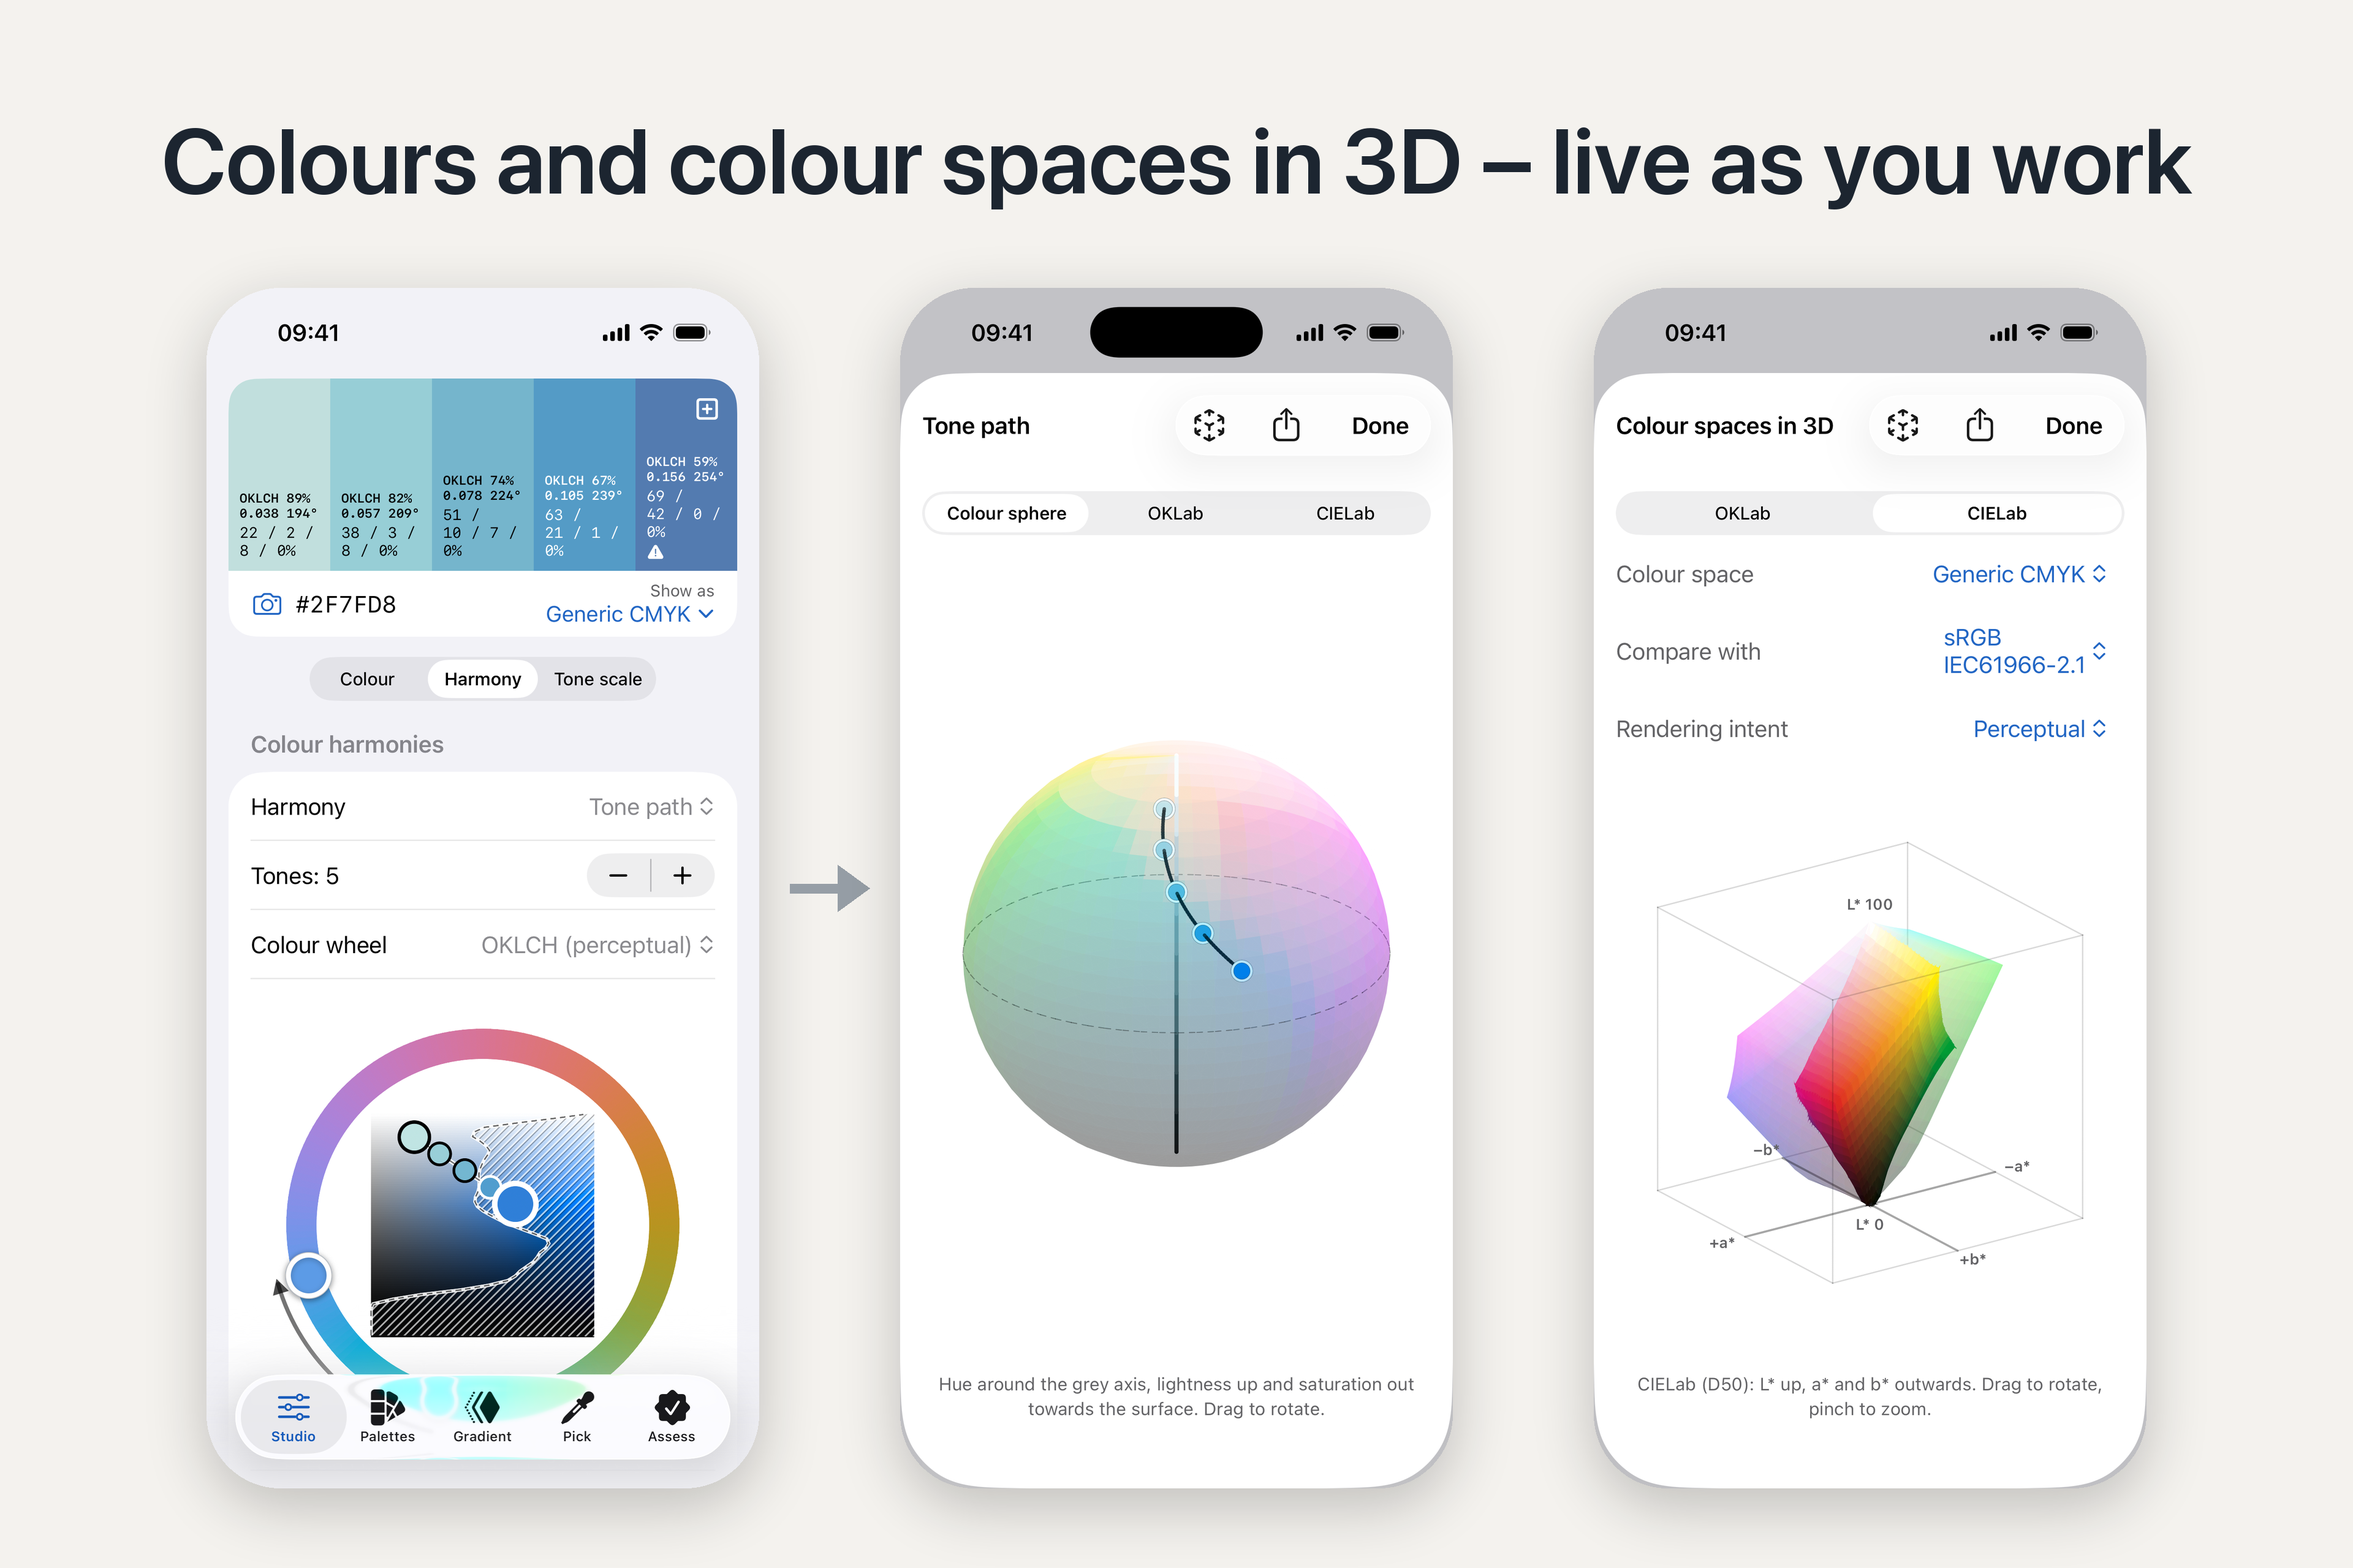
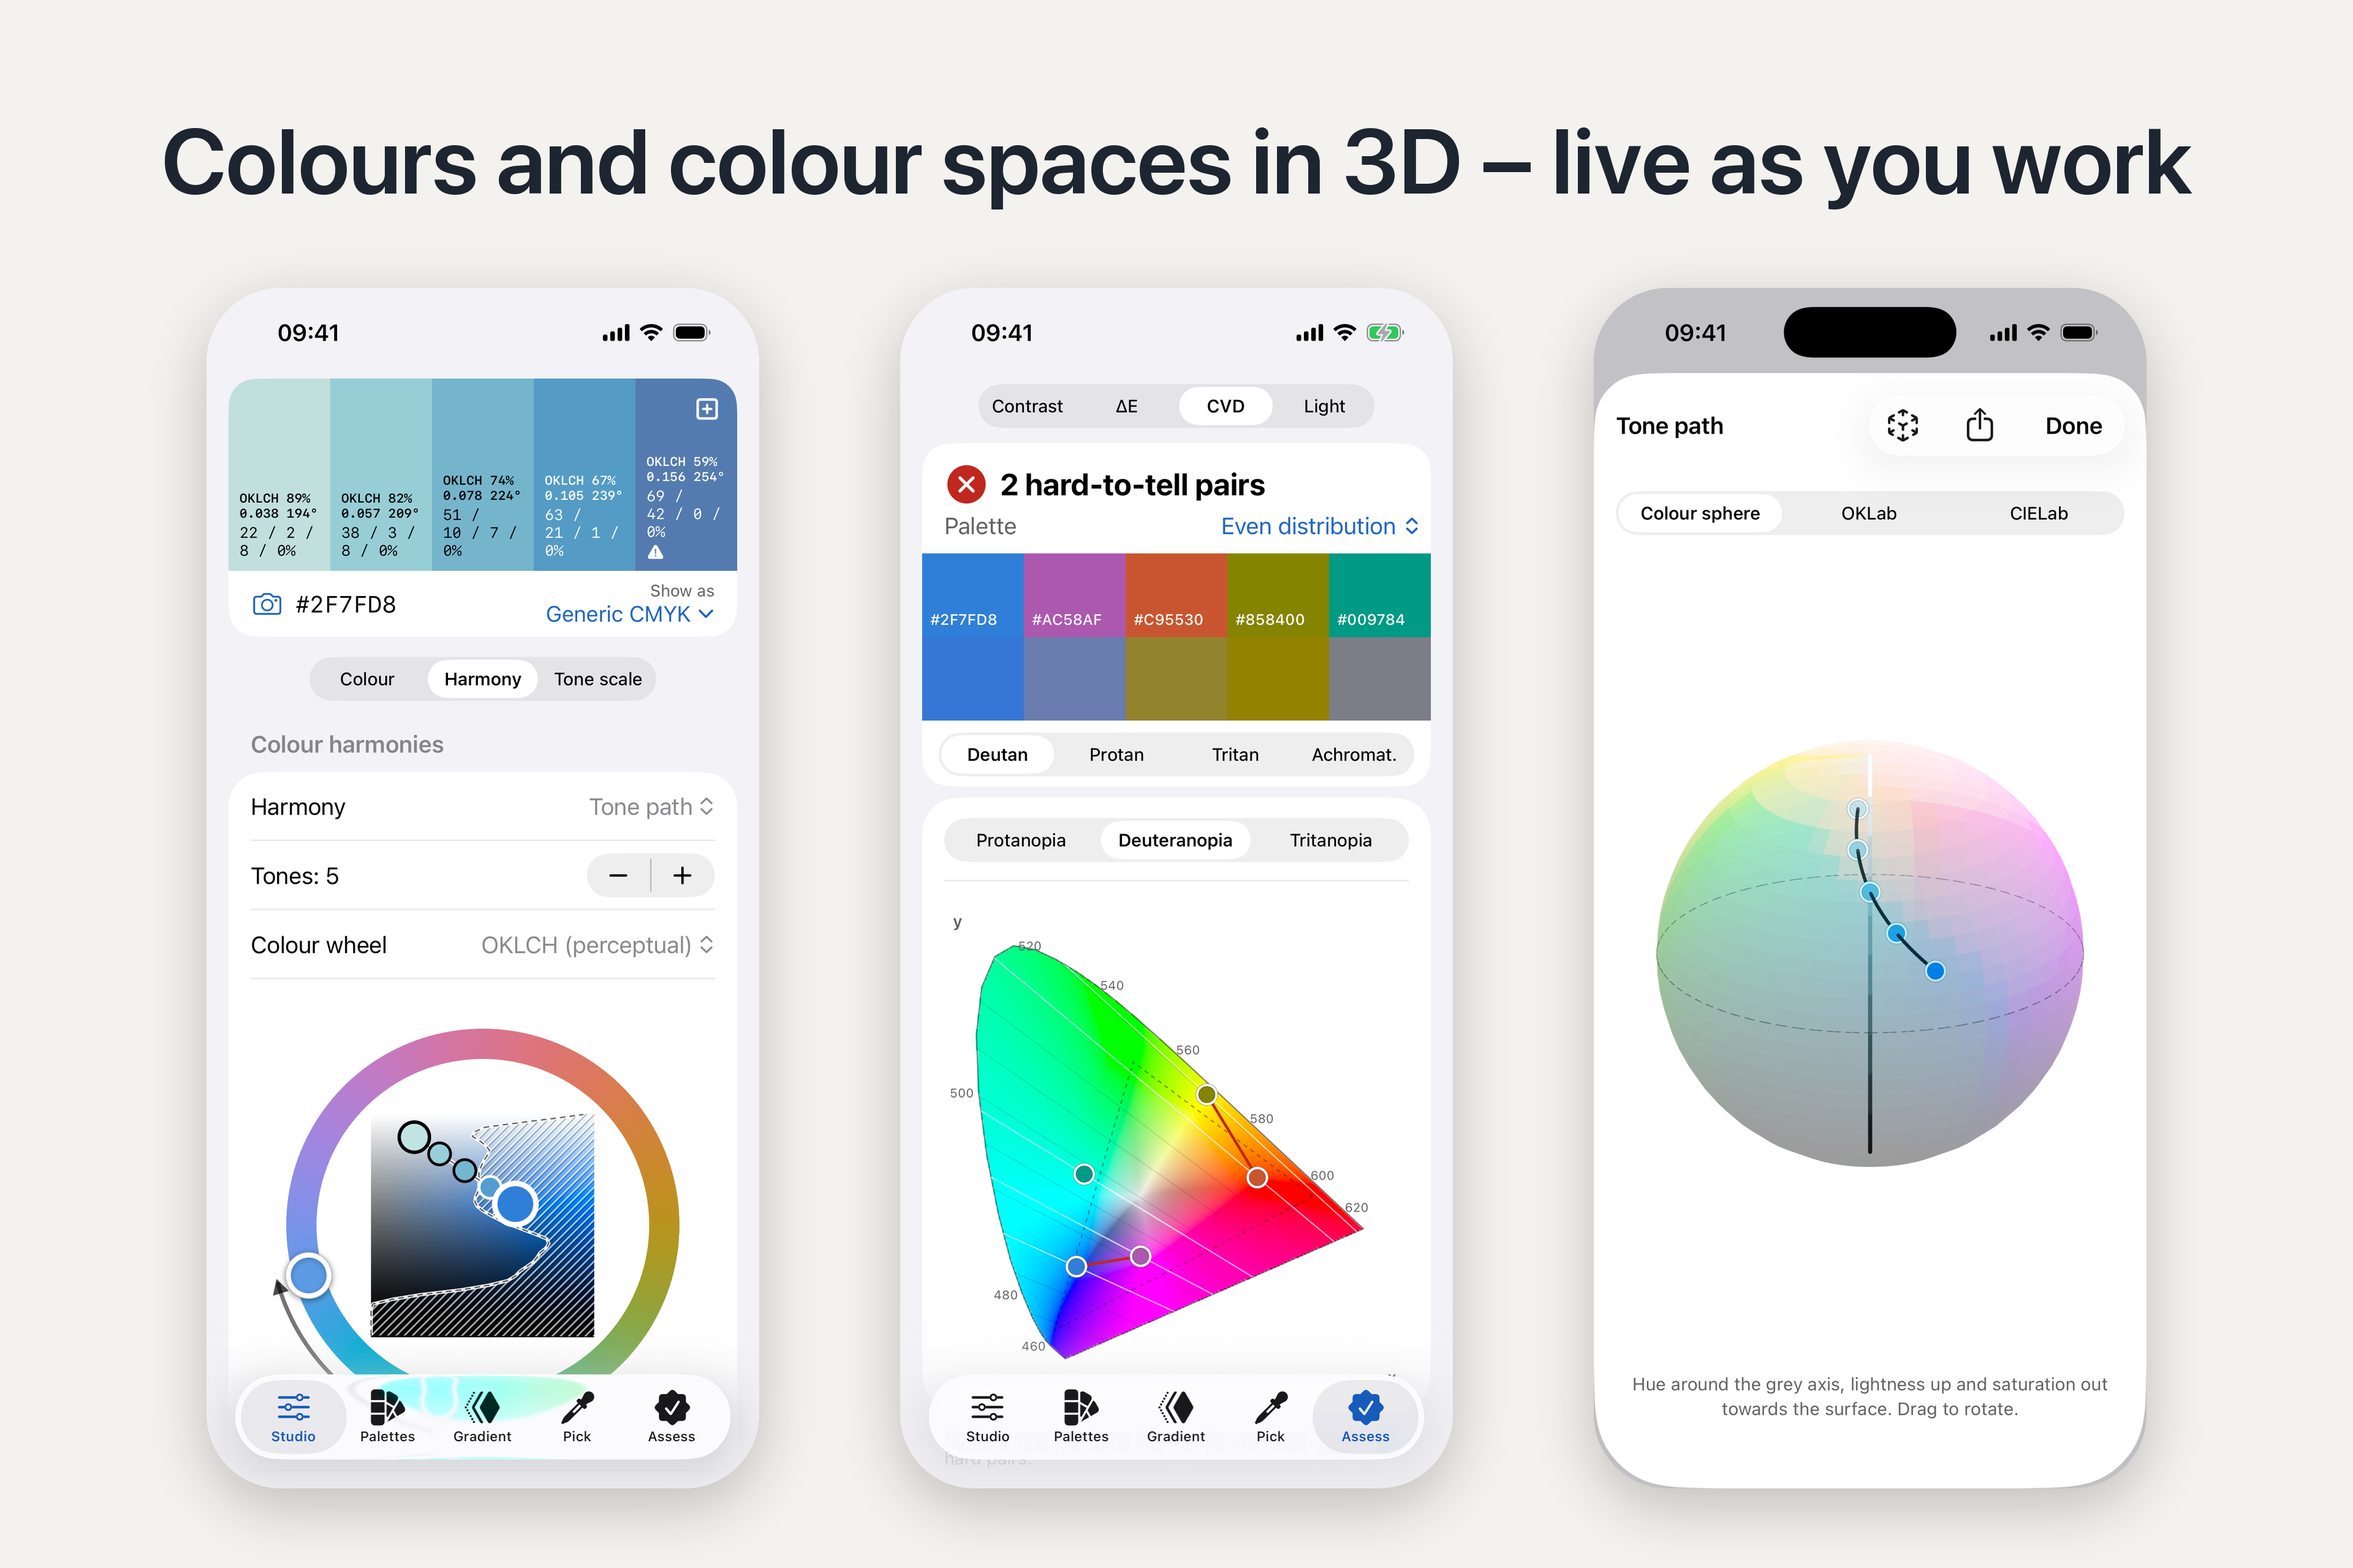
1.4 App Store: søkeresultatet med harmoni, fargesyn og kula (færre 3D-modeller)

diff --git a/Dokumentasjon/1.4/Skjermbilder/lag_sokeresultat.py b/Dokumentasjon/1.4/Skjermbilder/lag_sokeresultat.py
@@ -1,5 +1,5 @@
 from PIL import Image, ImageDraw, ImageFilter, ImageFont
-# Søkeresultat (3:2, 3840 × 2560) i samme stil som headeren: tonebanen i Harmoni, tonebanen på kula og fargerom sammenlignet.
+# Søkeresultat (3:2, 3840 × 2560) i samme stil som headeren: tonebanen i Harmoni, fargesyn med forvirringslinjer og tonebanen på kula.
 S='skudd/'
 W,H=3840,2560
 BG=(244,242,238); TXT=(28,37,48); GRA=(150,158,166)
@@ -17,11 +17,10 @@ def pil(d,x0,x1,y):
 for L in ['nb','en']:
     c=Image.new('RGB',(W,H),BG); d=ImageDraw.Draw(c)
     t=titler[L]; b=d.textbbox((0,0),t,font=font); d.text(((W-(b[2]-b[0]))/2-b[0],170),t,font=font,fill=TXT)
-    tlf=[Image.open(S+f).convert('RGB') for f in [f'tonebane-{L}.png',f'3d-tonebane-{L}.png',f'3d-gamut-{L}.png']]
+    tlf=[Image.open(S+f).convert('RGB') for f in [f'tonebane-{L}.png',f'../iphone63-{L}/09-fargesyn.png',f'3d-tonebane-{L}.png']]
     h=1960; tlf=[i.resize((round(i.width*h/i.height),h),Image.LANCZOS) for i in tlf]
     gap=230; total=sum(i.width for i in tlf)+2*gap; x=(W-total)//2; y=470
     for n,i in enumerate(tlf):
         legg(c,i,x,y,120); x+=i.width
-        if n==0: pil(d,x+50,x+gap-50,y+h//2)
         if n<2: x+=gap
     c.save(f'sokeresultat-{L}.png'); c.resize((W//4,H//4),Image.LANCZOS).save(f'sokeresultat-{L}-sml.png'); print(L,c.size)

diff --git a/Dokumentasjon/1.4/AppStore.md b/Dokumentasjon/1.4/AppStore.md
@@ -542,8 +542,8 @@ signert Debug-bygg (skjermbildemodus bruker en database i minnet uten iCloud). i
 `Dokumentasjon/1.4/Skjermbilder/`: `header-nb.png` / `header-en.png` (produktsidens header, 21:9, 3840 × 1646) og
 `sokeresultat-nb.png` / `sokeresultat-en.png` (søkeresultat, 3:2, 3840 × 2560), med tittelen «Farger og fargerom i 3D –
 live mens du jobber» / «Colours and colour spaces in 3D – live as you work» (SF, halvfet). Headeren viser tonebanen på
-kula (iPhone), live 3D på åpen iPhone Duo og fargerom sammenlignet (iPhone); søkeresultatet tonebanen i Harmoni → på kula,
-og fargerom sammenlignet. Lages på nytt med `lag_header.py` og `lag_sokeresultat.py` fra `skudd/` (simulatoren
+kula (iPhone), live 3D på åpen iPhone Duo og fargerom sammenlignet (iPhone); søkeresultatet tonebanen i Harmoni, fargesyn med
+forvirringslinjer (`iphone63-*/09-fargesyn.png`) og tonebanen på kula. Lages på nytt med `lag_header.py` og `lag_sokeresultat.py` fra `skudd/` (simulatoren
 «Skjermbilder 6,3»: `-studioModus harmoni -harmoni tonebane [-vis3D tonebane]` og `-vis3D profil -fargerom3D.rom cieLab
 -fargerom3D.profil kCGColorSpaceGenericCMYK -fargerom3D.sammenlign kCGColorSpaceSRGB -fargerom3D.hensikt perseptuell`;
 Duo-bildet er `apen-3d` fra iPhone Duo-simulatoren).
